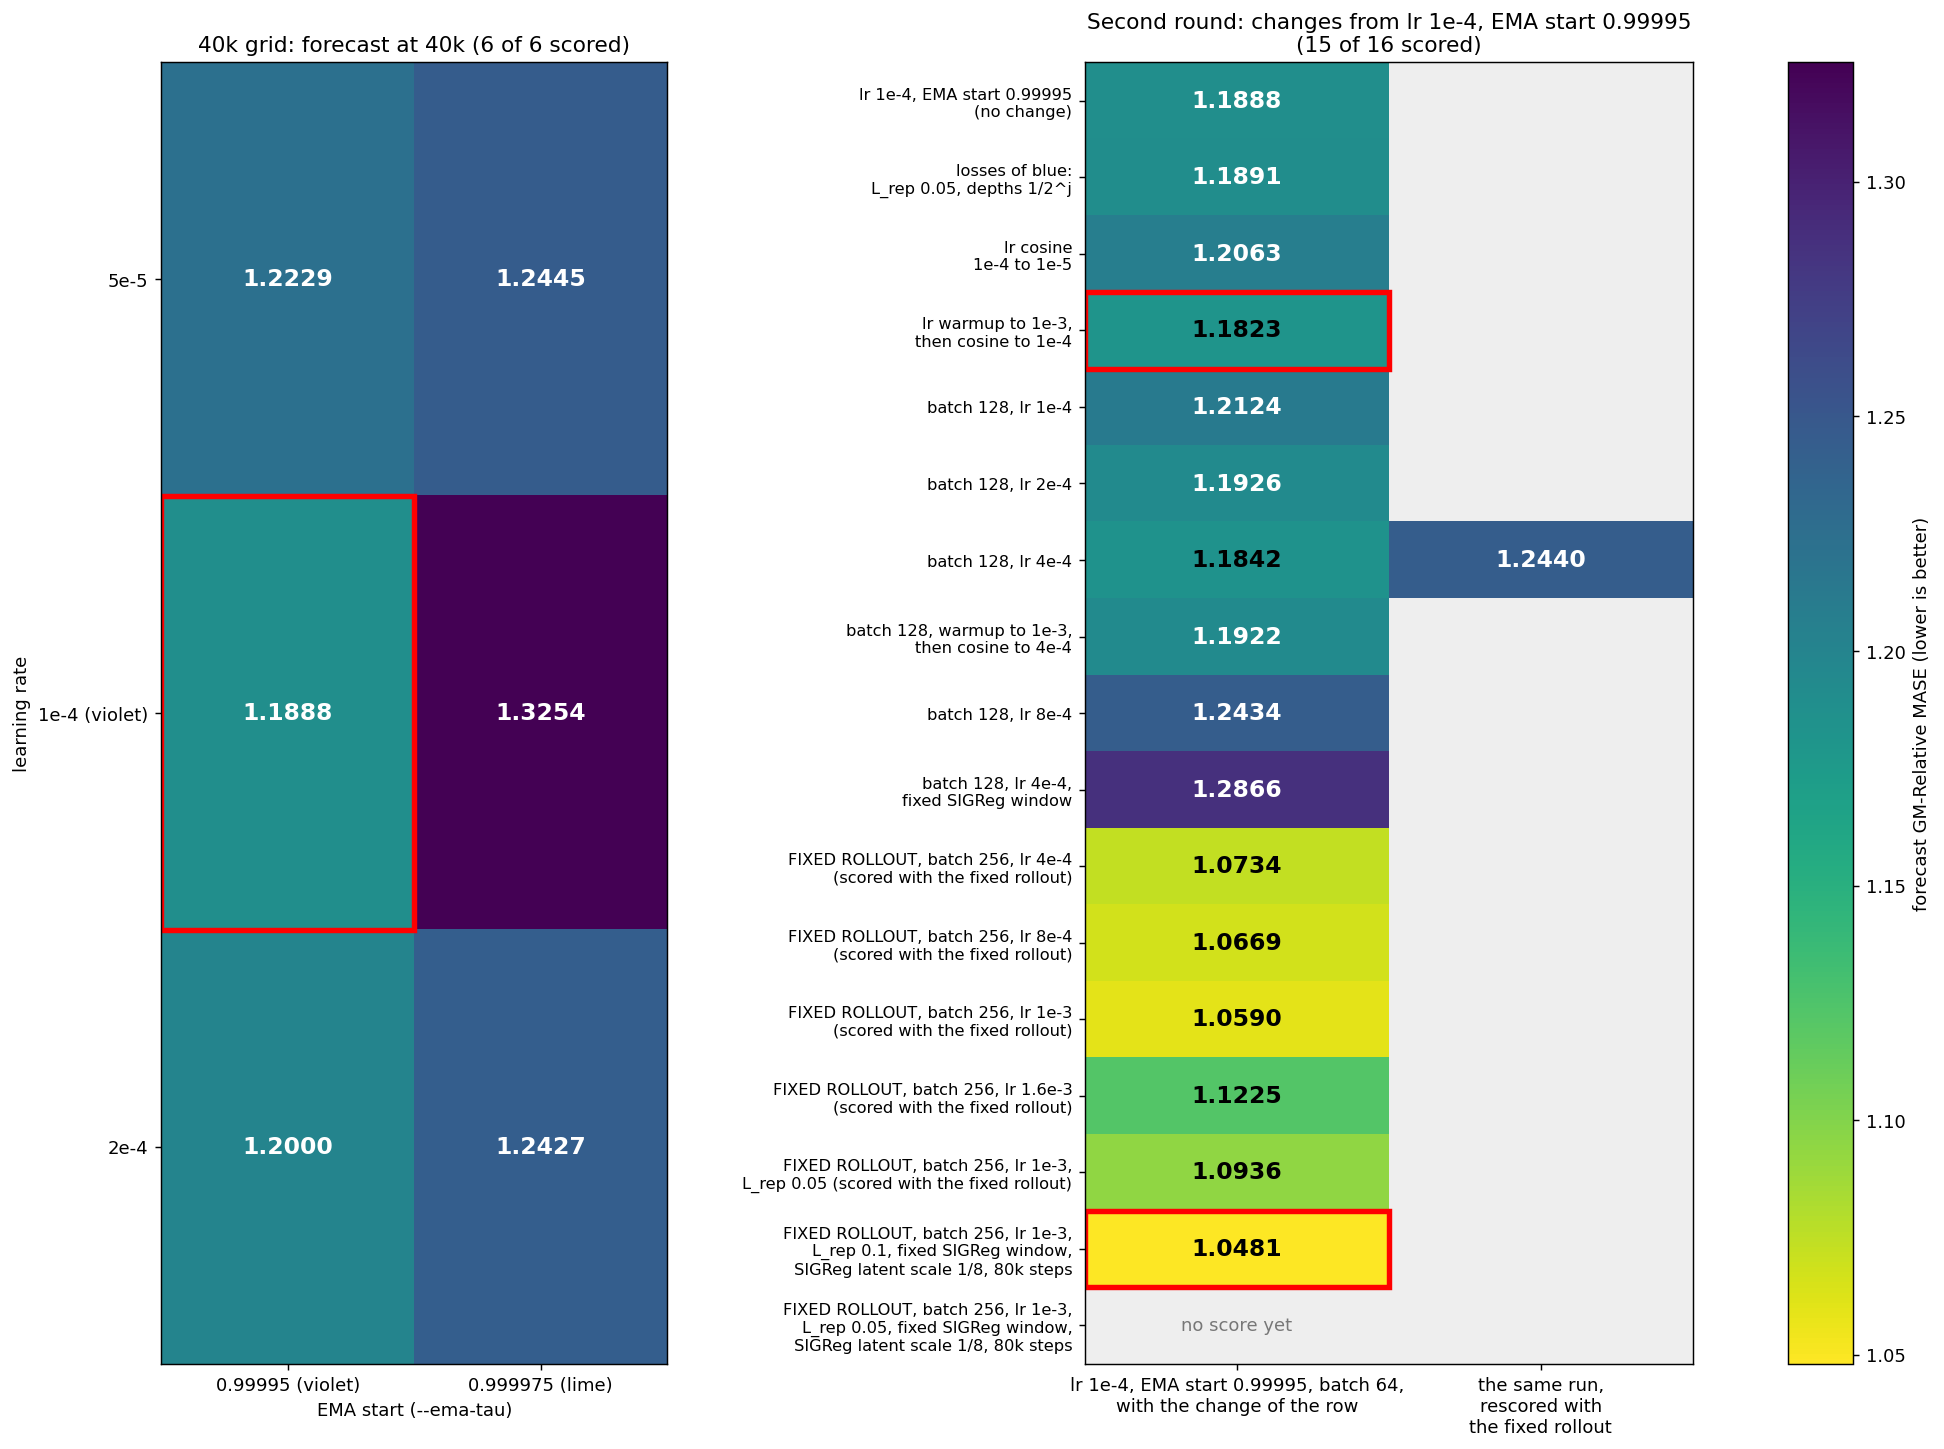
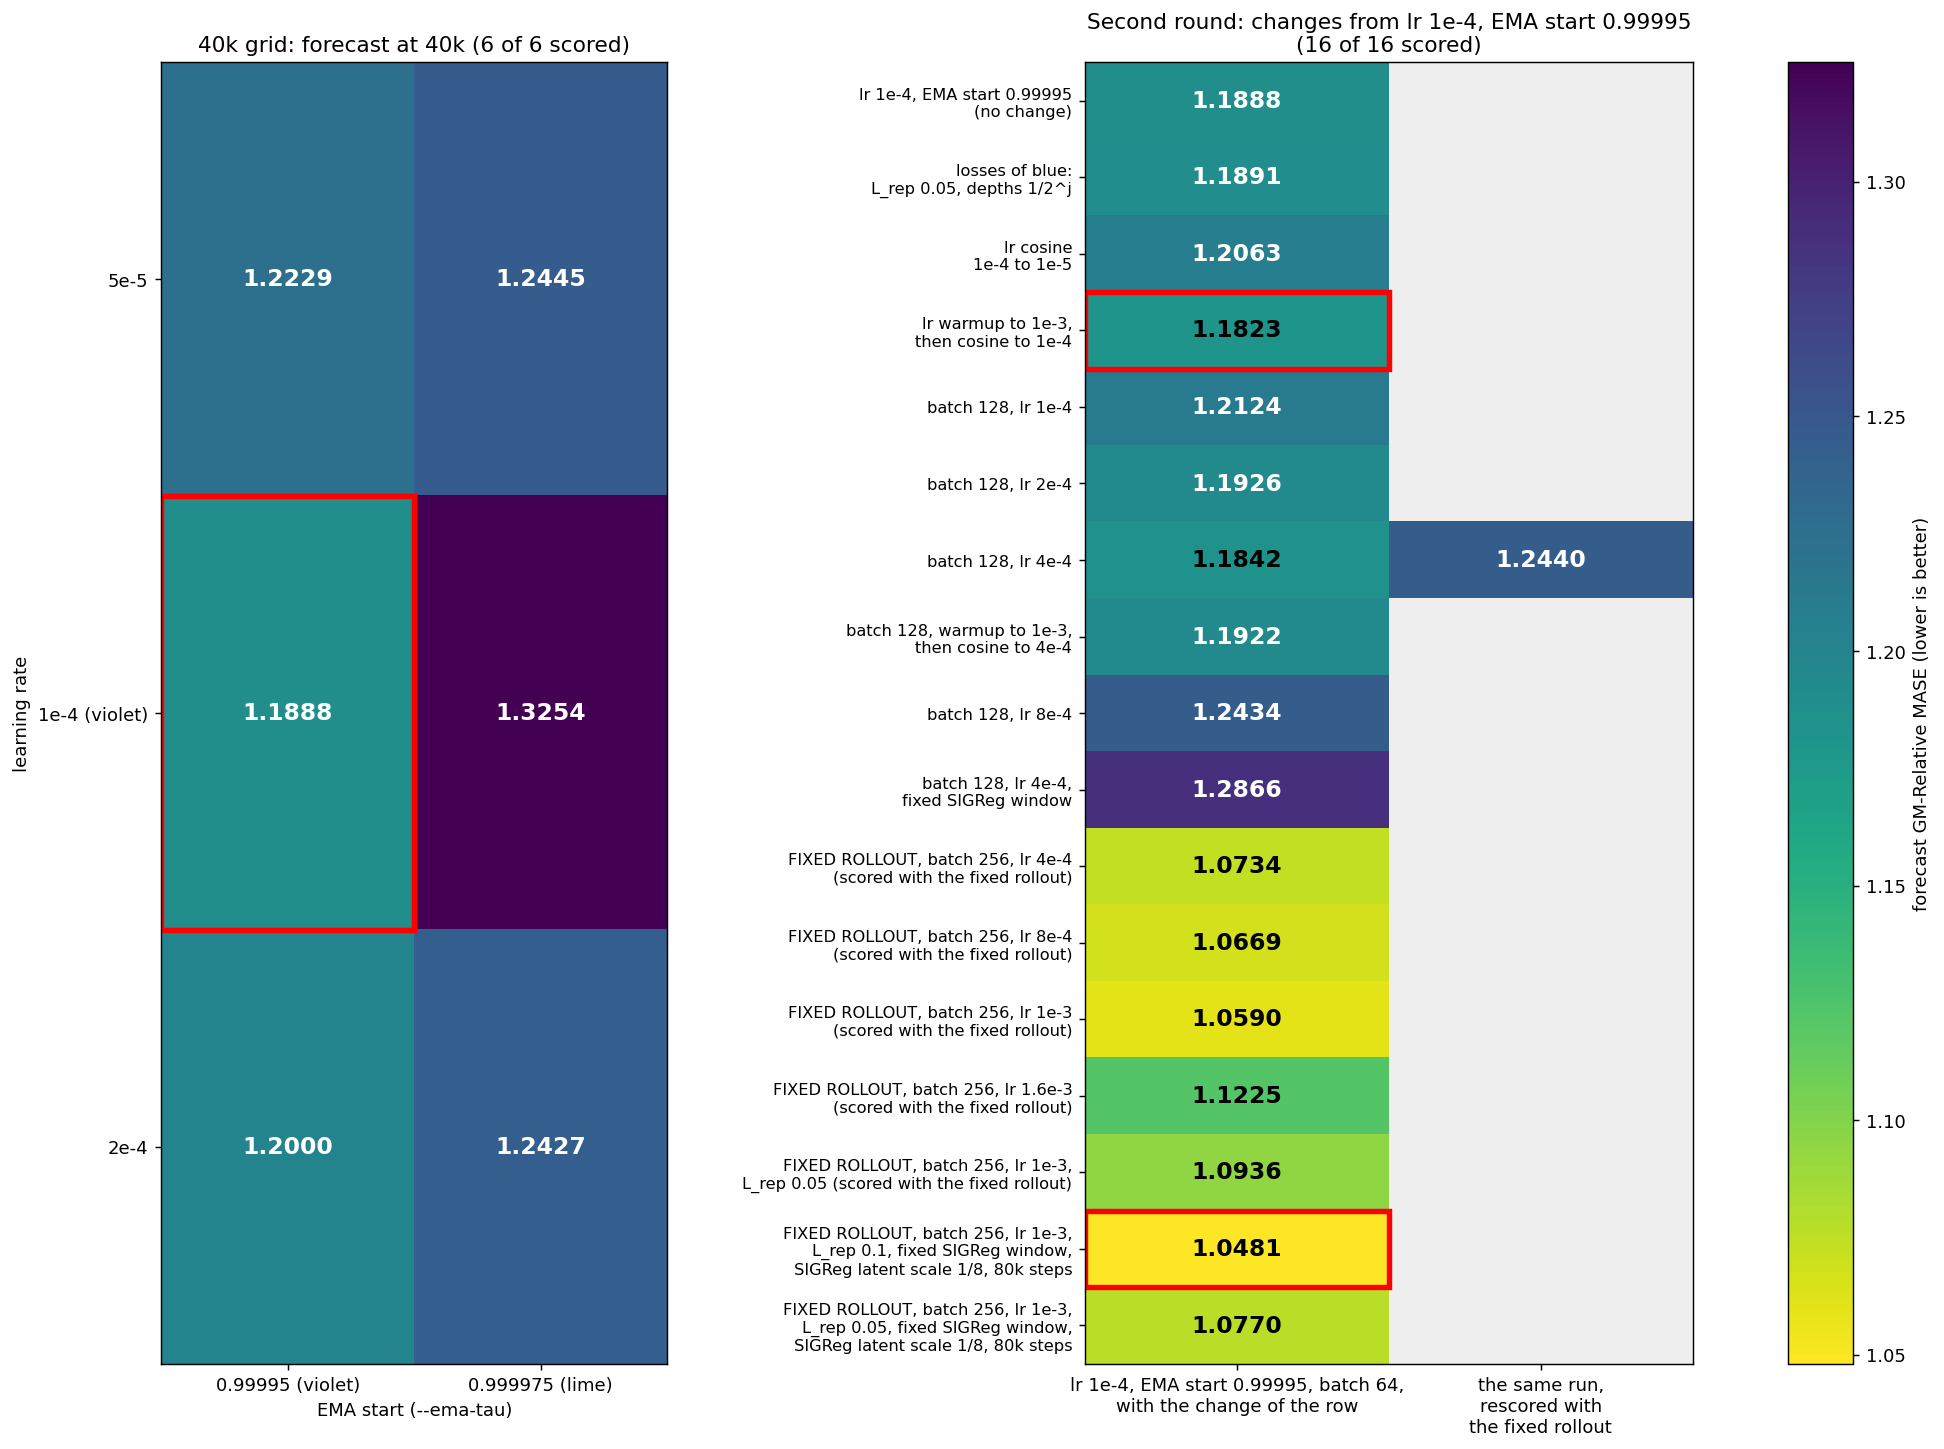
The 40k score 1.0770 of the SIGReg-scale L_rep 0.05 run (L_rep 0.1: 1.0481)

Changed region(s): [[0.5556, 0.8696, 0.7407, 0.9627]]

diff --git a/reports/2026-10-10_frequency_family_head/frequency_family_head.md b/reports/2026-10-10_frequency_family_head/frequency_family_head.md
@@ -101,6 +101,7 @@ The 80k runs now train with `--sigreg-latent-scale inv_sqrt_d`: SIGReg reads eac
 In a test of 300 steps, SIGReg on the encoder output falls from 9.4 to 0.09 with this factor.
 At 20k, the 80k run with L_rep 0.1 gets 1.0656 (short 0.9844, medium 1.1831, long 1.1811).
 At 40k, it gets 1.0481 (short 0.9741, medium 1.1572, long 1.1500), the lowest score of the grid.
+With L_rep 0.05, the other 80k run gets 1.0770 at 40k (short 0.9769, medium 1.2063, long 1.2416).
 With the fixed rollout, batch 128 at 4e-4 gets 1.2440, and 1.1842 with the raw rollout (the right column).
 This run trained with the raw rollout feedback.
 At 40k, the fixed rollout also gives higher scores for violet (1.1948 against 1.1430) and blue (1.2337 against 1.1944), the two muP runs with the flags of the grid.
